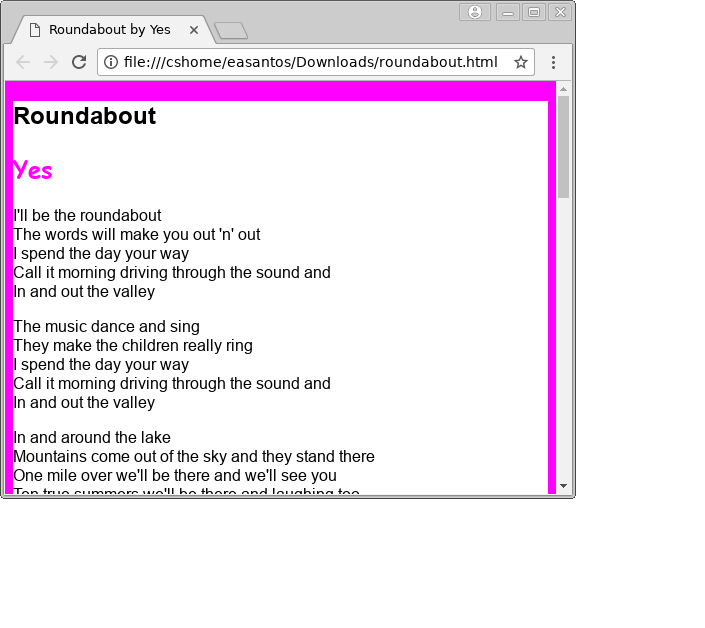
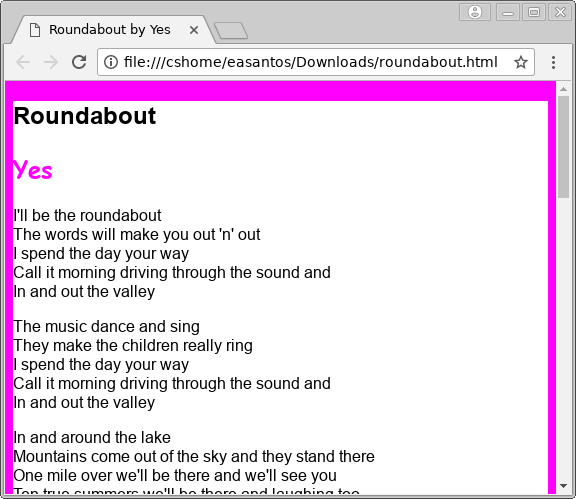
Add screenshots to lab 5.

Changed region(s): [[0.0, 0.0, 1.0, 1.0], [0.6562, 0.0, 0.6875, 0.0301]]

diff --git a/lab-5.html b/lab-5.html
@@ -110,11 +110,17 @@ code span.in { color: #60a0b0; font-weight: bold; font-style: italic; } /* Infor
 <h2 id="including-styles-from-an-external-css-file">Including styles from an external CSS file</h2>
 <p><code>styles.css</code> already contains one <strong>ruleset</strong> that will be applied to the entire HTML document. However, the HTML document must first <strong>link</strong> to the CSS file to use its styles.</p>
 <p>Open <code>roundabout.html</code> in your browser. You will probably see a boring page, with a default background (usually white), default text colour (usually black), and the default font (usually Times New Roman).</p>
+<figure>
+<img src="lab-5/roundabout-initial.png" alt="roundabout.html with default browser styles." /><figcaption><code>roundabout.html</code> with default browser styles.</figcaption>
+</figure>
 <p><code>styles.css</code> contains some conspicuous styling choices. In order to view the results of <code>styles.css</code>, we must <strong>link</strong> to it. Within the <code>&lt;head&gt;</code> element of <code>roundabout.html</code>, add a <code>&lt;link&gt;</code> element to apply the CSS file <code>styles.html</code> to the page.</p>
 <p>A <code>&lt;link&gt;</code> element for including an external CSS file has this basic syntax:</p>
 <pre class="sourceCode html" id="cb1"><code class="sourceCode html"><a class="sourceLine" id="cb1-1" data-line-number="1"><span class="kw">&lt;link</span><span class="ot"> rel=</span><span class="st">&quot;stylesheet&quot;</span><span class="ot"> href=</span><span class="st">&quot;path/to/file.css&quot;</span> <span class="kw">/&gt;</span></a></code></pre>
 <p>Adapt the example above to apply the styles within <code>styles.css</code> to <code>roundabout.html</code>. Replace <code>path/to/file.css</code> with the relative or absolute URL as needed. The <code>&lt;link&gt;</code> element must be a child of the <code>&lt;head&gt;</code> tag. <code>&lt;link&gt;</code> tags are typically placed near the end of the <code>&lt;head&gt;</code> element, after the <code>&lt;meta&gt;</code> and <code>&lt;title&gt;</code> elements. Add the appropriate <code>&lt;link&gt;</code> element, save the HTML file, and reload the page.</p>
 <p>If you have done this correctly, the page should appear magenta, with the text written in Comic Sans or some other “fantasy” typeface.</p>
+<figure>
+<img src="lab-5/roundabout-sans.png" alt="roundabout.html with styles.css applied." /><figcaption><code>roundabout.html</code> with <code>styles.css</code> applied.</figcaption>
+</figure>
 <blockquote>
 <p><strong>Question 1</strong>: Copy and paste the entire <code>&lt;head&gt;</code> element from <code>roundabout.html</code> (including the <code>&lt;link&gt;</code> you just added) as the answer to this question.</p>
 </blockquote>
@@ -181,6 +187,9 @@ For more information on CSS terminology, see <a href="https://css-tricks.com/css
 <blockquote>
 <p><strong>Question 7</strong>: Copy-paste your updated ruleset for <code>&lt;body&gt;</code> as the answer to this question. How did the appearance of your webpage change?</p>
 </blockquote>
+<figure>
+<img src="lab-5/roundabout-no-margin.png" alt="roundabout.html with slightly better styles." /><figcaption><code>roundabout.html</code> with slightly better styles.</figcaption>
+</figure>
 <h2 id="selectors">Selectors</h2>
 <p>In order to apply styles to an element, we need to know <em>which</em> elements these styles should be applied to. To <em>select</em> particular elements on a page, we write an appropriate <strong>selector</strong>.</p>
 <h3 id="element-selectors">Element selectors</h3>
@@ -254,9 +263,9 @@ to appear like this
 <h2 id="final-touches">Final touches</h2>
 <p>I’d like the text of the lyrics to be <strong>centered</strong> horizontally.</p>
 <p>Write a ruleset that will center the text of the lyrics. It is up to you to write an appropriate selector, and determine the appropriate declaration that will center the lyrics on the page. If you don’t know which property you have to use to center the text, feel free to consult external resources. Since you are just using external sources as a reference to know which property to manipulate, you do not need to cite it, unless you copy-paste code from the resource.</p>
-<!--
-TODO: screenshot of end product
--->
+<figure>
+<img src="lab-5/roundabout-final.png" alt="roundabout.html with centered-text." /><figcaption><code>roundabout.html</code> with centered-text.</figcaption>
+</figure>
 <blockquote>
 <p><strong>Question 15</strong>: As the answer to this question, copy-and-paste the ruleset you used to (horizontally) center the text on the page.</p>
 </blockquote>

diff --git a/lab-5.md b/lab-5.md
@@ -63,6 +63,8 @@ Open `roundabout.html` in your browser. You will probably see a boring
 page, with a default background (usually white), default text colour
 (usually black), and the default font (usually Times New Roman).
 
+![`roundabout.html` with default browser styles.](lab-5/roundabout-initial.png)
+
 `styles.css` contains some conspicuous styling choices. In order to
 view the results of `styles.css`, we must **link** to it.
 Within the `<head>` element of `roundabout.html`, add a `<link>` element
@@ -84,6 +86,8 @@ appropriate `<link>` element, save the HTML file, and reload the page.
 
 If you have done this correctly, the page should appear magenta, with
 the text written in Comic Sans or some other "fantasy" typeface.
+
+![`roundabout.html` with `styles.css` applied.](lab-5/roundabout-sans.png)
 
 > **Question 1**:  Copy and paste the entire `<head>` element from
 > `roundabout.html` (including the `<link>` you just added) as the
@@ -208,6 +212,8 @@ value of `font-family` to `sans-serif`. Set the `background-color` to
 > **Question 7**: Copy-paste your updated ruleset for `<body>` as the
 > answer to this question. How did the appearance of your webpage
 > change?
+
+![`roundabout.html` with slightly better styles.](lab-5/roundabout-no-margin.png)
 
 
 Selectors
@@ -396,9 +402,7 @@ external resources. Since you are just using external sources as
 a reference to know which property to manipulate, you do not need to
 cite it, unless you copy-paste code from the resource.
 
-<!--
-TODO: screenshot of end product
--->
+![`roundabout.html` with centered-text.](lab-5/roundabout-final.png)
 
 > **Question 15**: As the answer to this question, copy-and-paste the
 > ruleset you used to (horizontally) center the text on the page.
